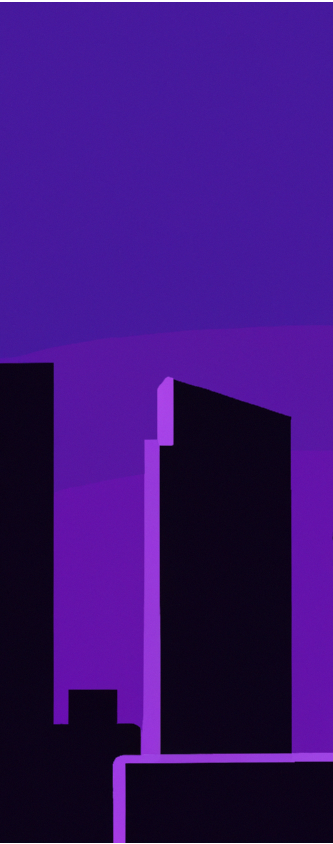
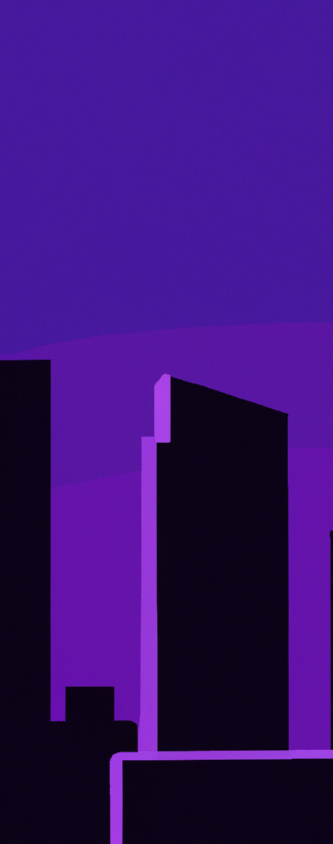
landing page cover image fixed.

Changed region(s): [[0.1502, 0.4313, 1.0, 1.0], [0.6607, 0.4621, 0.8408, 0.4929], [0.0, 0.4005, 0.1502, 0.4313]]

diff --git a/app/assets/stylesheets/pages/_home.scss b/app/assets/stylesheets/pages/_home.scss
@@ -7,7 +7,7 @@
   // top: 0px;
   object-fit: cover;
   border: 0px;
-  height: 100%;
+  height: 100vh;
 }
 
 .swiper-slide h1 {
